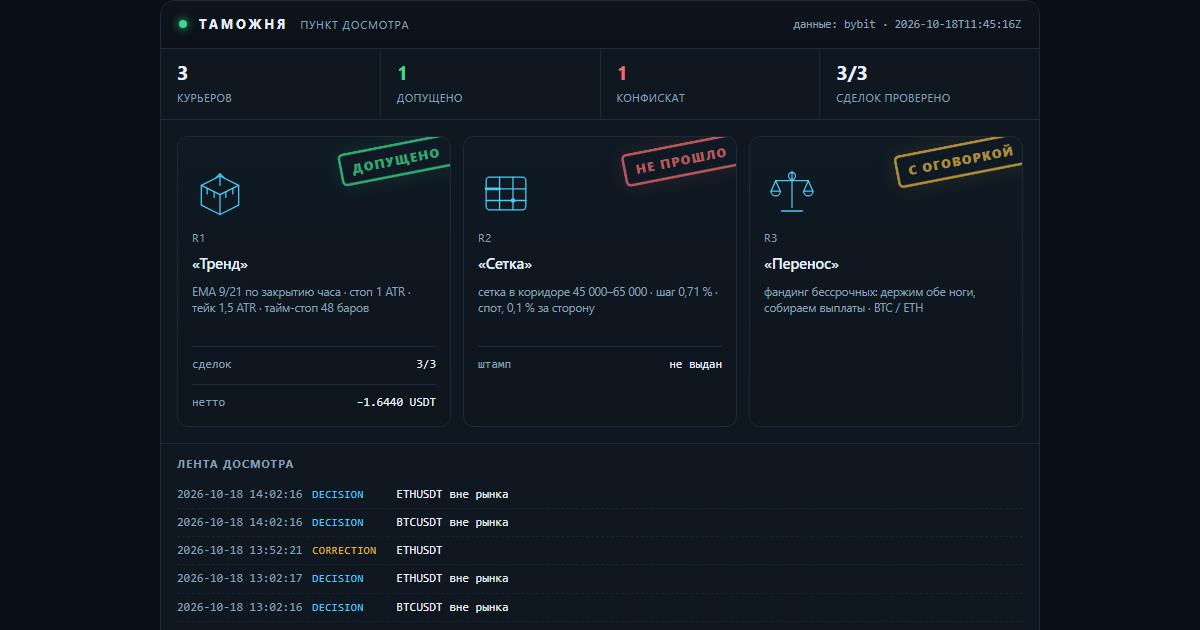
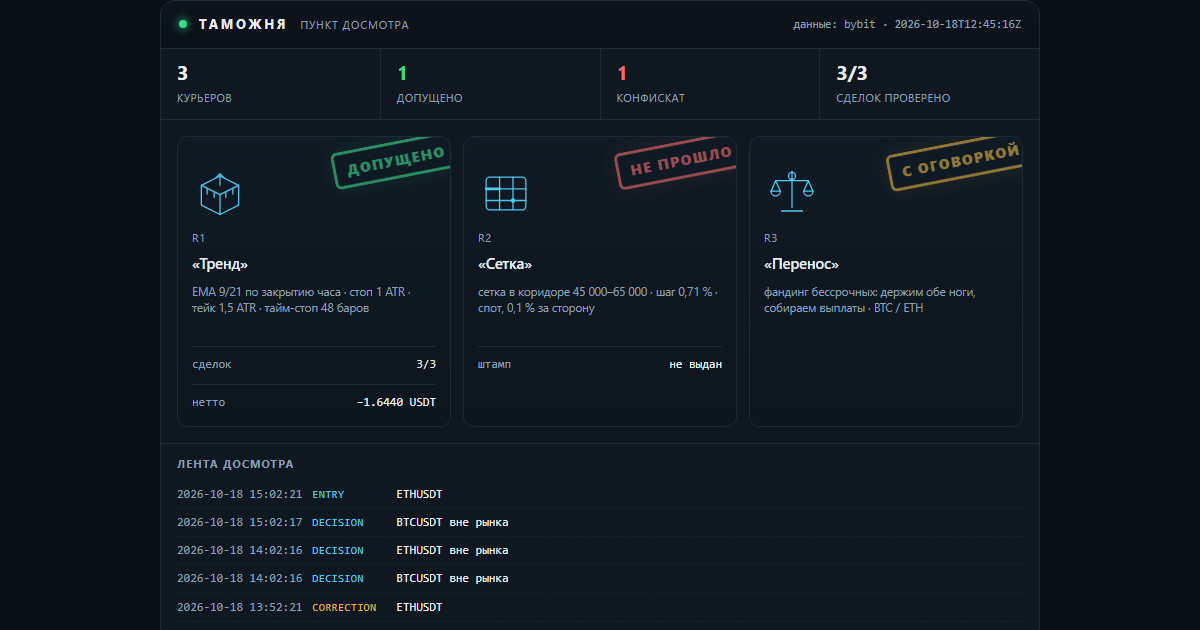
lab: таможня — свежие числа досмотра

diff --git a/docs/customs.html b/docs/customs.html
@@ -16,7 +16,7 @@
   <h1><a href="index.html">Gramwright Lab</a></h1>
   <p>Журнал проверки торговых гипотез: что проверяли, что вышло по факту, сколько съели издержки. Числа берутся из журнала стенда. Не инвестиционная рекомендация.</p>
 </header>
-<h1>Таможня</h1><p class="intro">Пункт досмотра заявленных результатов. Стратегии приезжают с грузом обещаний, и каждая проходит проверку по публичным данным биржи: цены существуют, комиссии по тарифу, нетто сходится. Что прошло — получает штамп. Что не прошло — в конфискат, с причиной. Штамп означает «записи подлинные», а не «стратегия прибыльна».</p><p><img src="img/customs.png" alt="Терминал досмотра: три курьера, штампы, лента событий" style="width:100%;height:auto;border:1px solid var(--line);border-radius:10px"></p><p class="c-note">Сверху — тот же терминал, что собирается из журналов: счётчики, эмблемы курьеров, штампы и лента последних событий. Ниже — то же самое текстом, чтобы читалось с телефона и индексировалось поиском.</p><article><h2>R1 «Тренд» <span class="verdict">— <span class="c-ok">допущено</span></span></h2><p><strong>Правило:</strong> EMA 9/21 по закрытию часа · стоп 1 ATR · тейк 1,5 ATR · тайм-стоп 48 баров</p><p><strong>Декларация:</strong> Заявлено до прогона: держать 30 сделок, лимит нотионала 10 % от счёта, стоп дня −1 %. Прибыль не заявлялась — это важно: курьер не обещал доход.</p><p><strong>Проверено по публичным свечам, без ключей:</strong> 3 из 3 сделок. Сумма нетто −1.6440 USDT.</p><ul class="c-chk"><li class="y">BTCUSDT: нетто −0.8746 USDT · комиссии 0.0901 · проверено · с поправкой</li><li class="y">BTCUSDT: нетто −0.5441 USDT · комиссии 0.0896 · проверено</li><li class="y">ETHUSDT: нетто −0.2253 USDT · комиссии 0.0266 · проверено</li></ul><p class="tags">журнал sha256 b1dc4c710201e932… · проверяльщик verify-1</p><p class="c-note">Штамп означает: записи подлинные, а не что стратегия прибыльна. Курьер в минусе, и минус тоже стоит на штампе — иначе это была бы не проверка, а реклама.</p><p class="tags">источник: verify-report.json</p></article><article><h2>R2 «Сетка» <span class="verdict">— <span class="c-bad">не прошло</span></span></h2><p><strong>Правило:</strong> сетка в коридоре 45 000–65 000 · шаг 0,71 % · спот, 0,1 % за сторону</p><p><strong>Декларация:</strong> Заявлено: «44 % урожая уходит бирже в виде комиссий». Кроме того — перевес над простым владением монетой.</p><p><strong>Что сошлось:</strong></p><ul class="c-chk"><li class="y">сами числа пересчитаны и воспроизводятся: коридор 45–65k был активен 23 % всей истории и 28 % последних двух лет</li></ul><p><strong>Что не сошлось:</strong></p><ul class="c-chk"><li class="n">44 % не подтвердилось: при шаге 0,71 % и тарифе 0,1 % комиссия съедает 28,3 % шага. Чтобы получить 44 %, нужен шаг 0,45 % — это около 80 уровней, а не 50</li><li class="n">от урожая доля комиссий 85,5 % за всю историю и 49,6 % за последние два года — тоже не 44 %</li><li class="n">перевес над владением посчитан на тарифе 0,055 %: при нём +1,32 п. п., на розничном 0,1 % — −0,72 п. п. То есть перевес исчезает</li><li class="n">семилетний тест стартовал в сентябре 2019 при биткоине около 10 000 — ниже коридора. Он говорит, что фиксированный коридор не подходит для периода, а не что сетка отстаёт</li></ul><p class="tags">источник: lab_grid.py, пересчёт 17.10.2026</p></article><article><h2>R3 «Перенос» <span class="verdict">— <span class="c-warn">с оговоркой</span></span></h2><p><strong>Правило:</strong> фандинг бессрочных: держим обе ноги, собираем выплаты · BTC / ETH</p><p><strong>Декларация:</strong> Заявлено: около 11,9 % в год от выплат фандинга при просадке выплатной кривой меньше 2 %.</p><p><strong>Что сошлось:</strong></p><ul class="c-chk"><li class="y">выплаты взяты из публичной истории биржи, ключей не нужно: BTC — 7 190 выплат с 25.03.2020, ETH — 6 561 с 21.10.2020</li><li class="y">сумма сходится: +83,4 % и +83,2 % за 6,6 и 6,0 года — те самые ~11,9 % в год</li><li class="y">худшая просадка выплатной кривой: −1,65 % и −1,97 %</li></ul><p><strong>Что не сошлось:</strong></p><ul class="c-chk"><li class="n">оговорка 1: премию сжали — 2021 год дал +38,3 %, 2026 — +1,96 %. Прошлое не повторяется</li><li class="n">оговорка 2: вход-выход стоит около 0,31 %, капитала нужно 1,2 от нотионала, текущий базис −0,082 % против входа</li><li class="n">оговорка 3: риск площадки. История FTX в этой же таблице выглядела так же прилично</li></ul><p class="tags">источник: публичная история фандинга Bybit, замер 17.10.2026</p></article><div class="c-conf"><h3>Конфискат</h3><p><strong>«Сетка»: заявленные 44 % комиссий не подтвердились.</strong> Досмотр показал 28,3 % от шага и 85,5 % от урожая — цифра хуже заявленной по форме, но лучше по смыслу: сетку убивает не размер шага, а то, что урожай почти весь уходит в комиссии. Это и вышло в выпуск — с поправкой, а не с красивой цифрой.</p></div><p class="c-note">Пломба: <code>2026-10-18T11:45:16Z</code> · нотариус FreeTSA · Oct 18 11:45:16 2026 GMT · подпись подтверждена. Манифест скрепляет отчёт проверки, журнал сделок и декларации курьеров: подменишь любую цифру — пломба перестанет сходиться.</p><p class="c-note">Досмотр идёт по публичным минутным свечам и публичной истории фандинга — ключей у проверяющего нет, и он может повторить проверку сам.</p><p class="c-note">Контент образовательный, не является инвестиционной рекомендацией. Торговля связана с риском потери капитала.</p>
+<h1>Таможня</h1><p class="intro">Пункт досмотра заявленных результатов. Стратегии приезжают с грузом обещаний, и каждая проходит проверку по публичным данным биржи: цены существуют, комиссии по тарифу, нетто сходится. Что прошло — получает штамп. Что не прошло — в конфискат, с причиной. Штамп означает «записи подлинные», а не «стратегия прибыльна».</p><p><img src="img/customs.png" alt="Терминал досмотра: три курьера, штампы, лента событий" style="width:100%;height:auto;border:1px solid var(--line);border-radius:10px"></p><p class="c-note">Сверху — тот же терминал, что собирается из журналов: счётчики, эмблемы курьеров, штампы и лента последних событий. Ниже — то же самое текстом, чтобы читалось с телефона и индексировалось поиском.</p><article><h2>R1 «Тренд» <span class="verdict">— <span class="c-ok">допущено</span></span></h2><p><strong>Правило:</strong> EMA 9/21 по закрытию часа · стоп 1 ATR · тейк 1,5 ATR · тайм-стоп 48 баров</p><p><strong>Декларация:</strong> Заявлено до прогона: держать 30 сделок, лимит нотионала 10 % от счёта, стоп дня −1 %. Прибыль не заявлялась — это важно: курьер не обещал доход.</p><p><strong>Проверено по публичным свечам, без ключей:</strong> 3 из 3 сделок. Сумма нетто −1.6440 USDT.</p><ul class="c-chk"><li class="y">BTCUSDT: нетто −0.8746 USDT · комиссии 0.0901 · проверено · с поправкой</li><li class="y">BTCUSDT: нетто −0.5441 USDT · комиссии 0.0896 · проверено</li><li class="y">ETHUSDT: нетто −0.2253 USDT · комиссии 0.0266 · проверено</li></ul><p class="tags">журнал sha256 0606baa6c1547812… · проверяльщик verify-1</p><p class="c-note">Штамп означает: записи подлинные, а не что стратегия прибыльна. Курьер в минусе, и минус тоже стоит на штампе — иначе это была бы не проверка, а реклама.</p><p class="tags">источник: verify-report.json</p></article><article><h2>R2 «Сетка» <span class="verdict">— <span class="c-bad">не прошло</span></span></h2><p><strong>Правило:</strong> сетка в коридоре 45 000–65 000 · шаг 0,71 % · спот, 0,1 % за сторону</p><p><strong>Декларация:</strong> Заявлено: «44 % урожая уходит бирже в виде комиссий». Кроме того — перевес над простым владением монетой.</p><p><strong>Что сошлось:</strong></p><ul class="c-chk"><li class="y">сами числа пересчитаны и воспроизводятся: коридор 45–65k был активен 23 % всей истории и 28 % последних двух лет</li></ul><p><strong>Что не сошлось:</strong></p><ul class="c-chk"><li class="n">44 % не подтвердилось: при шаге 0,71 % и тарифе 0,1 % комиссия съедает 28,3 % шага. Чтобы получить 44 %, нужен шаг 0,45 % — это около 80 уровней, а не 50</li><li class="n">от урожая доля комиссий 85,5 % за всю историю и 49,6 % за последние два года — тоже не 44 %</li><li class="n">перевес над владением посчитан на тарифе 0,055 %: при нём +1,32 п. п., на розничном 0,1 % — −0,72 п. п. То есть перевес исчезает</li><li class="n">семилетний тест стартовал в сентябре 2019 при биткоине около 10 000 — ниже коридора. Он говорит, что фиксированный коридор не подходит для периода, а не что сетка отстаёт</li></ul><p class="tags">источник: lab_grid.py, пересчёт 17.10.2026</p></article><article><h2>R3 «Перенос» <span class="verdict">— <span class="c-warn">с оговоркой</span></span></h2><p><strong>Правило:</strong> фандинг бессрочных: держим обе ноги, собираем выплаты · BTC / ETH</p><p><strong>Декларация:</strong> Заявлено: около 11,9 % в год от выплат фандинга при просадке выплатной кривой меньше 2 %.</p><p><strong>Что сошлось:</strong></p><ul class="c-chk"><li class="y">выплаты взяты из публичной истории биржи, ключей не нужно: BTC — 7 190 выплат с 25.03.2020, ETH — 6 561 с 21.10.2020</li><li class="y">сумма сходится: +83,4 % и +83,2 % за 6,6 и 6,0 года — те самые ~11,9 % в год</li><li class="y">худшая просадка выплатной кривой: −1,65 % и −1,97 %</li></ul><p><strong>Что не сошлось:</strong></p><ul class="c-chk"><li class="n">оговорка 1: премию сжали — 2021 год дал +38,3 %, 2026 — +1,96 %. Прошлое не повторяется</li><li class="n">оговорка 2: вход-выход стоит около 0,31 %, капитала нужно 1,2 от нотионала, текущий базис −0,082 % против входа</li><li class="n">оговорка 3: риск площадки. История FTX в этой же таблице выглядела так же прилично</li></ul><p class="tags">источник: публичная история фандинга Bybit, замер 17.10.2026</p></article><div class="c-conf"><h3>Конфискат</h3><p><strong>«Сетка»: заявленные 44 % комиссий не подтвердились.</strong> Досмотр показал 28,3 % от шага и 85,5 % от урожая — цифра хуже заявленной по форме, но лучше по смыслу: сетку убивает не размер шага, а то, что урожай почти весь уходит в комиссии. Это и вышло в выпуск — с поправкой, а не с красивой цифрой.</p></div><p class="c-note">Пломба: <code>2026-10-18T12:45:16Z</code> · нотариус FreeTSA · Oct 18 12:45:16 2026 GMT · подпись подтверждена. Манифест скрепляет отчёт проверки, журнал сделок и декларации курьеров: подменишь любую цифру — пломба перестанет сходиться.</p><p class="c-note">Досмотр идёт по публичным минутным свечам и публичной истории фандинга — ключей у проверяющего нет, и он может повторить проверку сам.</p><p class="c-note">Контент образовательный, не является инвестиционной рекомендацией. Торговля связана с риском потери капитала.</p>
 <footer class="site">
   Код стенда и аудитора: <a href="https://github.com/XSlaidx/truth-engine">XSlaidx/truth-engine</a>
   &middot; <a href="graveyard.html">кладбище правил</a>
